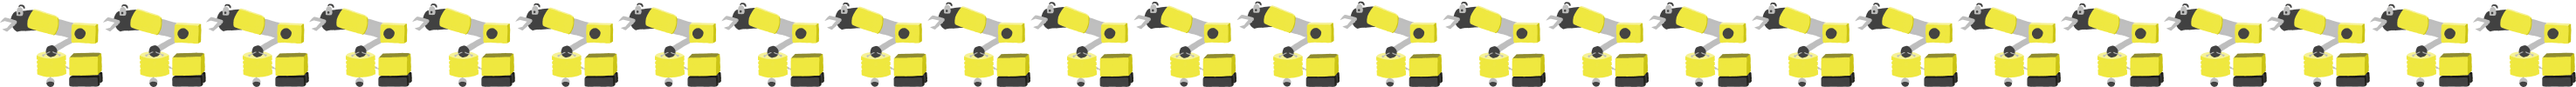
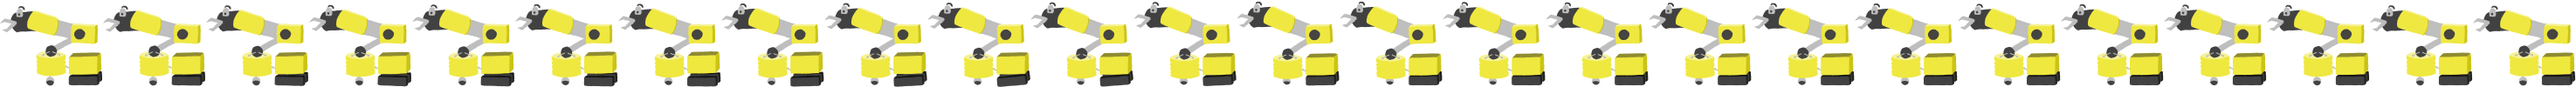
Some more marco animations

diff --git a/lib/marco/initializers/marco_init.rb b/lib/marco/initializers/marco_init.rb
@@ -5,10 +5,11 @@ require_relative "../ui/sprites/animation_group"
 class TilesInitializer < Initializer
 
 	register do |r|
-		puts "Initializing Marco"
+		puts "Initializing Marco art"
 
-		marco_images = Gosu::Image.load_tiles("img/marco-walk.png", 118, 100, tileable: true)
-		puts "MARCO #{marco_images.size}"
+		# marco_images = Gosu::Image.load_tiles("img/marco-walk.png", 118, 100, tileable: true)
+		marco_images = Gosu::Image.load_tiles("img/marco-idle-snapjaw-000.png", 118, 100, tileable: true)
+		# marco_images = Gosu::Image.load_tiles("img/marco-idle-lookaround-000.png", 118, 100, tileable: true)
 		marco_sprites = marco_images.map do |image|
 			UI::Sprites::BaseSprite.new(image, 64, 100)
 		end
